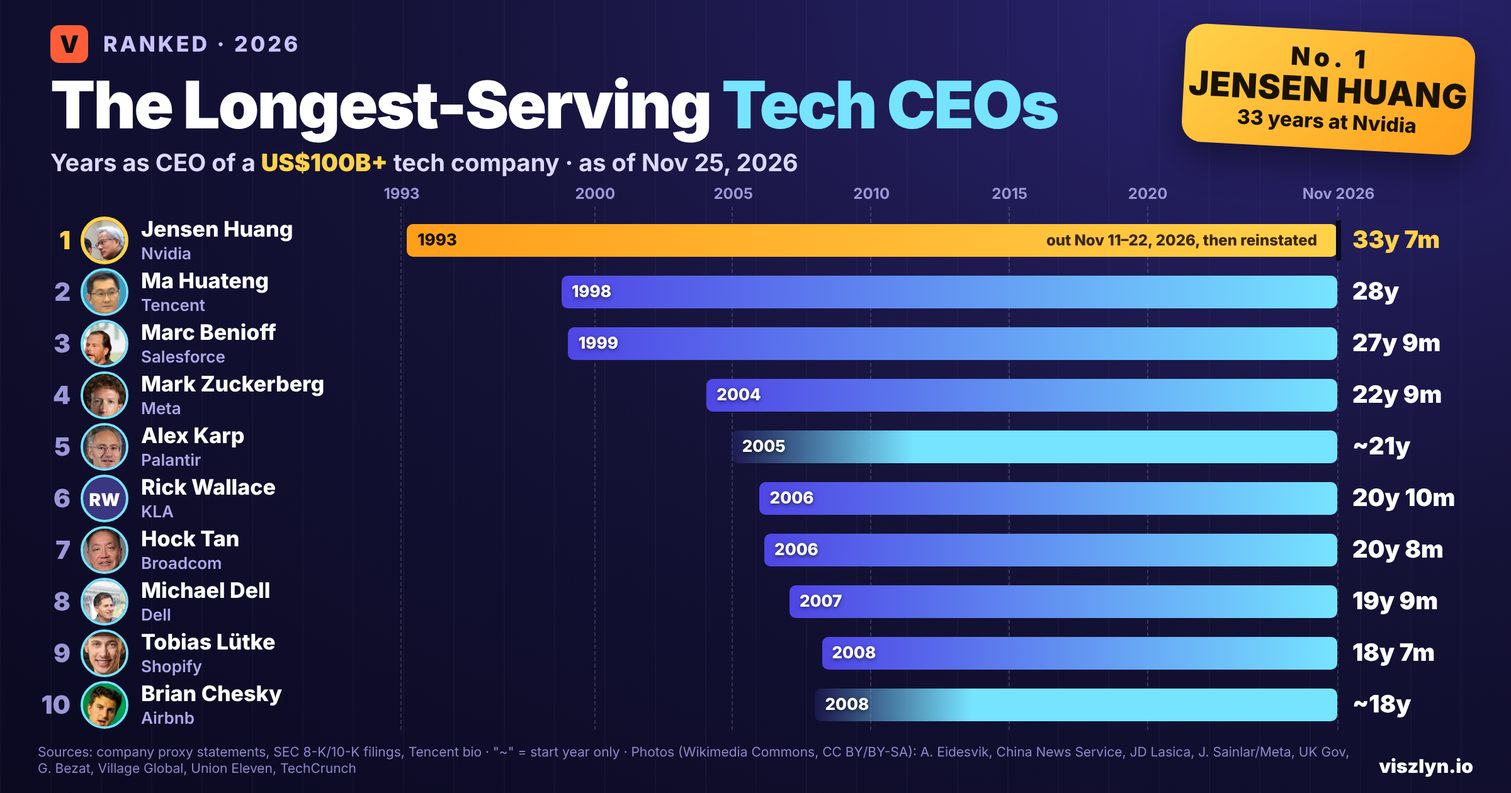
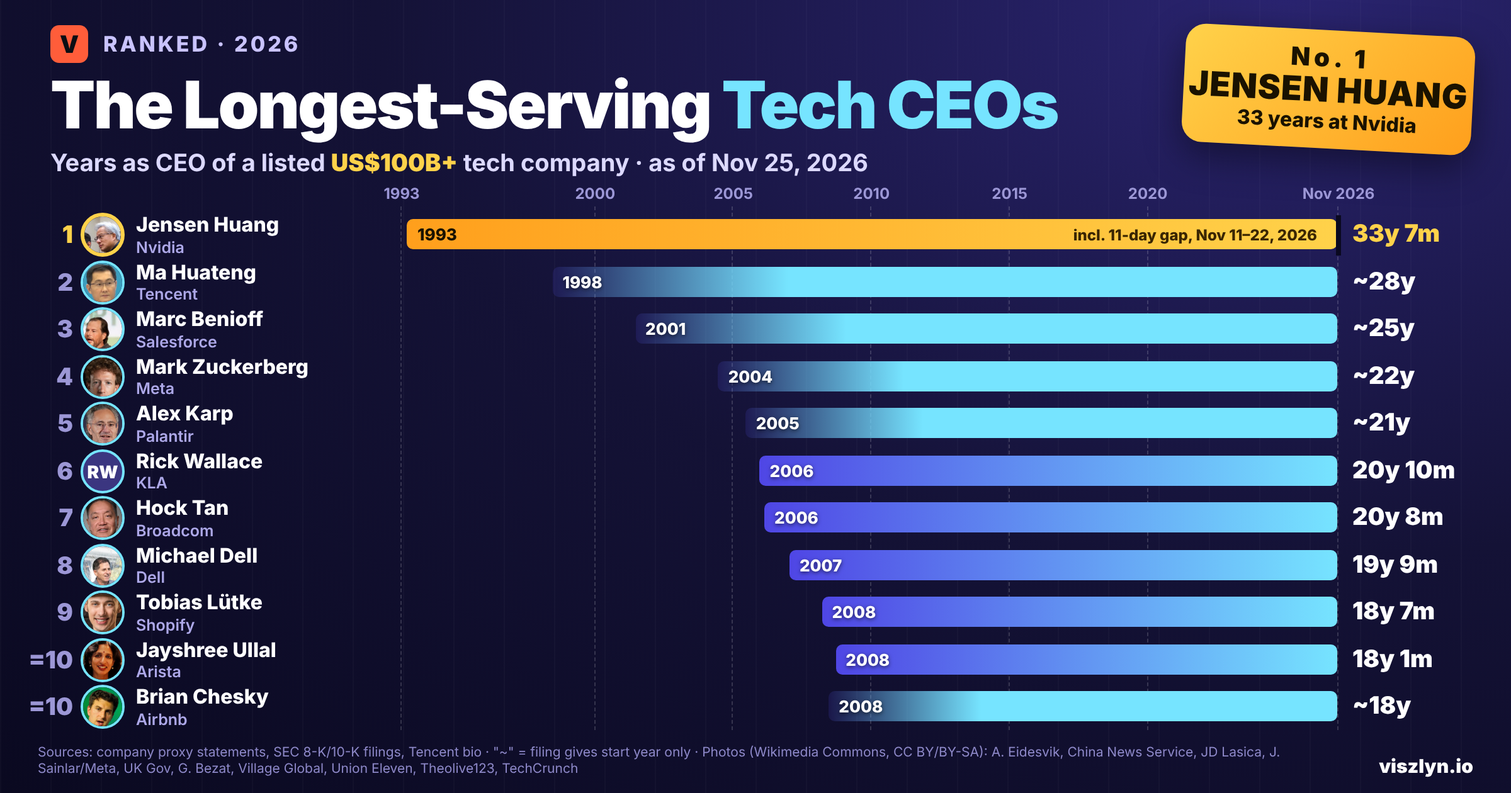
Tech CEOs: apply review fixes (Benioff since 2001, year-only tenures marked, joint No. 10 with Ullal)
Claude-Session: https://claude.ai/code/session_01Lx7Mnbsr2j6Zre36XCS9Kp

Changed region(s): [[0.0312, 0.2786, 0.9688, 0.9905], [0.0, 0.2476, 0.2188, 0.9286], [0.1562, 0.1857, 0.5938, 0.2167]]

diff --git a/src/data/rankings/longest-serving-tech-ceos-2026.ts b/src/data/rankings/longest-serving-tech-ceos-2026.ts
@@ -6,62 +6,71 @@ const MC = "Market cap: CompaniesMarketCap snapshot, November 25, 2026";
 export const longestServingTechCeos2026: RankingArticle = {
   slug: "longest-serving-tech-ceos-2026",
 
-  metaTitle: "The 10 Longest-Serving Tech CEOs in 2026 (Jensen Huang Is No. 1) | Viszlyn",
+  metaTitle: "The 10 Longest-Serving Tech CEOs in 2026, Ranked | Viszlyn",
   metaDescription:
-    "Jensen Huang has led Nvidia for 33 years, the longest of any CEO of a US$100 billion+ tech company, even after a brief exit in November 2026. See the top 10, from Pony Ma to Brian Chesky.",
+    "Nvidia's Jensen Huang (33 years), Tencent's Pony Ma (about 28) and Salesforce's Marc Benioff (about 25) lead the CEOs of US$100 billion+ listed tech companies by time in the job. See the full top 10.",
   ogTitle: "The Longest-Serving Tech CEOs in 2026",
   ogDescription:
-    "Jensen Huang (33 years), Pony Ma (28) and Marc Benioff (27) lead the CEOs of the world's biggest tech companies by time in the job.",
+    "Jensen Huang (33 years), Pony Ma (about 28) and Marc Benioff (about 25) lead the CEOs of the biggest listed tech companies by time in the job.",
   twitterTitle: "The 10 Longest-Serving Tech CEOs (2026)",
   twitterDescription:
-    "Jensen Huang 33 yrs. Pony Ma 28. Marc Benioff 27. Mark Zuckerberg 22. Who has run a US$100B+ tech company the longest?",
+    "Jensen Huang 33 yrs. Pony Ma ~28. Marc Benioff ~25. Mark Zuckerberg ~22. Who has run a US$100B+ tech company the longest?",
 
   eyebrow: "Tech",
   title: "The 10 Longest-Serving Tech CEOs in 2026",
-  dek: "Nvidia's Jensen Huang has been CEO since he co-founded the company in 1993, a run interrupted only by a brief exit from November 11 to 22, 2026. Here are the 10 CEOs who have led the world's biggest tech companies the longest.",
+  dek: "Ranked by time as CEO among listed tech companies worth more than US$100 billion. Nvidia's Jensen Huang leads with 33 years, counted from the company's founding in 1993.",
   publishedDate: "November 25, 2026",
   lastUpdated: "November 25, 2026",
-  dataPeriod: "Tenures as of November 25, 2026; companies worth over US$100 billion on that date",
+  dataPeriod: "Tenures as of November 25, 2026; listed companies worth over US$100 billion on that date",
   heroImage: {
     src: "/heroes/longest-serving-tech-ceos-2026.png",
     ogSrc: "/heroes/longest-serving-tech-ceos-2026-og.png",
-    alt: "Timeline bars showing how long the 10 longest-serving tech CEOs have led their companies: Jensen Huang (Nvidia) since 1993, Ma Huateng (Tencent) since 1998, Marc Benioff (Salesforce) since 1999, Mark Zuckerberg (Meta) since 2004, Alex Karp (Palantir) since 2005, Rick Wallace (KLA) and Hock Tan (Broadcom) since 2006, Michael Dell (Dell) since 2007, and Tobias Lütke (Shopify) and Brian Chesky (Airbnb) since 2008.",
+    alt: "Timeline bars showing how long the longest-serving tech CEOs have led their companies: Jensen Huang (Nvidia) since 1993, Ma Huateng (Tencent) since 1998, Marc Benioff (Salesforce) since 2001, Mark Zuckerberg (Meta) since 2004, Alex Karp (Palantir) since 2005, Rick Wallace (KLA) and Hock Tan (Broadcom) since 2006, Michael Dell (Dell) since 2007, and Tobias Lütke (Shopify), Jayshree Ullal (Arista) and Brian Chesky (Airbnb) since 2008.",
   },
 
   quickAnswer:
-    "Jensen Huang of Nvidia is the longest-serving CEO of any tech company worth over US$100 billion: 33 years and 7 months as of November 25, 2026, counted from Nvidia's founding in April 1993. Tencent's Ma Huateng (28 years) and Salesforce's Marc Benioff (27 years and 9 months) follow. Huang resigned effective November 11, 2026 and was reinstated effective November 22, according to Nvidia's SEC filings; we count his tenure as continuous and show the 11-day gap.",
+    "Jensen Huang of Nvidia is the longest-serving CEO of any listed tech company worth over US$100 billion: 33 years and 7 months as of November 25, 2026, counted from Nvidia's founding in April 1993. Tencent's Ma Huateng (about 28 years) and Salesforce's Marc Benioff (about 25 years, CEO since 2001) follow. Huang's count includes an 11-day interruption: Nvidia's board accepted his resignation effective November 11, 2026 and reinstated him effective November 22, according to the company's SEC filings.",
   introParagraph:
-    "Tech moves fast, but a few of its biggest companies have had the same leader for decades. This ranking covers the current CEOs of listed technology, semiconductor, software and internet companies worth more than US$100 billion on November 25, 2026, and ranks them by how long they have been CEO of their current company. Start dates come from company filings and official biographies. Eight of the ten are founders or co-founders, and most of the leaders on this list have run their companies through several boom-and-bust cycles.",
+    "Tech moves fast, but a few of its biggest companies have had the same leader for decades. This ranking covers the current CEOs of listed technology, semiconductor, software and internet companies worth more than US$100 billion on November 25, 2026, and ranks them by how long they have been CEO of their current company. Start dates come from company filings and official biographies. Several filings give only a year, so those tenures are shown as approximate (\"~\"). Eight of the 11 CEOs on this list founded or co-founded their company.",
   calloutBox: {
     label: "What about Elon Musk?",
-    body: "Elon Musk has run SpaceX since founding it in 2002 and Tesla since 2008. If those companies counted, he would rank about third. They are not included because this ranking covers technology, semiconductor, software and internet companies, and SpaceX and Tesla are an aerospace company and a carmaker. Spotify's Daniel Ek, who led the company for about 20 years, also misses out: he became executive chairman on January 1, 2026, handing the CEO job to co-CEOs.",
+    body: "Tesla and SpaceX both appear on the market-value list we used, and Musk has run SpaceX since founding it in 2002 and Tesla since 2008. They are not included because this ranking covers technology, semiconductor, software and internet companies, and Tesla is a carmaker and SpaceX an aerospace company. Spotify's Daniel Ek, who led the company for about 20 years, also misses out: he became executive chairman on January 1, 2026, handing the CEO job to co-CEOs.",
   },
 
   chartTitle: "Years as CEO of their current company (as of Nov 25, 2026)",
-  chartSource: "Company proxy statements, 8-K and 10-K filings and official biographies. \"~\" = only the start year is published",
-  chartTapNote: "Tap any CEO to jump to their details below.",
+  chartSource: "Company proxy statements, 8-K and 10-K filings and official biographies. \"~\" = the filing gives only the start year",
+  chartTapNote: "Tap any CEO to jump to their details below. No. 10 is shared: Airbnb gives only the year Chesky became CEO.",
   entryValueLabel: "Time as CEO:",
   chartItems: [
-    { rank: 1, name: "Jensen Huang (Nvidia)", value: "33 yrs 7 mos", raw: 33.58 },
-    { rank: 2, name: "Ma Huateng (Tencent)", value: "28 yrs", raw: 28.0 },
-    { rank: 3, name: "Marc Benioff (Salesforce)", value: "27 yrs 9 mos", raw: 27.75 },
-    { rank: 4, name: "Mark Zuckerberg (Meta)", value: "22 yrs 9 mos", raw: 22.75 },
-    { rank: 5, name: "Alex Karp (Palantir)", value: "~21 yrs", raw: 21 },
-    { rank: 6, name: "Rick Wallace (KLA)", value: "20 yrs 10 mos", raw: 20.83 },
-    { rank: 7, name: "Hock Tan (Broadcom)", value: "20 yrs 8 mos", raw: 20.67 },
-    { rank: 8, name: "Michael Dell (Dell)", value: "19 yrs 9 mos", raw: 19.75 },
-    { rank: 9, name: "Tobias Lütke (Shopify)", value: "18 yrs 7 mos", raw: 18.58 },
-    { rank: 10, name: "Brian Chesky (Airbnb)", value: "~18 yrs", raw: 18 },
+    { rank: 1, name: "Jensen Huang", value: "33 yrs 7 mos", raw: 33.58 },
+    { rank: 2, name: "Ma Huateng", value: "~28 yrs", raw: 28 },
+    { rank: 3, name: "Marc Benioff", value: "~25 yrs", raw: 25 },
+    { rank: 4, name: "Mark Zuckerberg", value: "~22 yrs", raw: 22 },
+    { rank: 5, name: "Alex Karp", value: "~21 yrs", raw: 21 },
+    { rank: 6, name: "Rick Wallace", value: "20 yrs 10 mos", raw: 20.83 },
+    { rank: 7, name: "Hock Tan", value: "20 yrs 8 mos", raw: 20.67 },
+    { rank: 8, name: "Michael Dell", value: "19 yrs 9 mos", raw: 19.75 },
+    { rank: 9, name: "Tobias Lütke", value: "18 yrs 7 mos", raw: 18.58 },
+    { rank: 10, rankLabel: "=10", name: "Jayshree Ullal", value: "18 yrs 1 mo", raw: 18.08 },
+    { rank: 10, rankLabel: "=10", name: "Brian Chesky", value: "~18 yrs", raw: 18 },
   ],
 
   detailedEntries: [
     {
-      rank: 10, name: "Brian Chesky", earnings: "About 18 years (since 2008)", category: "Airbnb · co-founder",
+      rank: 10, rankLabel: "=10", name: "Brian Chesky", earnings: "About 18 years (since 2008)", category: "Airbnb · co-founder",
       origin: `Market cap US$103.46 billion (${MC})`,
-      blurb: "Airbnb's 2026 proxy statement says Chesky co-founded the company in 2008 and serves as its chief executive officer and chair. Only the year is published.",
-      standoutFact: "He edges out Arista's Jayshree Ullal (CEO since October 2008) on Airbnb's August 2008 founding; the two are effectively level.",
+      blurb: "Airbnb's 2026 proxy statement says Chesky co-founded the company in 2008 and serves as its chief executive officer and board chair. It gives no month for when he became CEO.",
+      standoutFact: "Because only the year is published, his exact place can't be pinned down: depending on the month, he would rank anywhere from ninth to eleventh. We show him level with Jayshree Ullal.",
       sourceTag: "Airbnb, 2026 proxy statement",
       image: { src: `${P}/brian-chesky.webp`, width: 798, height: 1200, alt: "Brian Chesky speaking on stage at a TechCrunch event", author: "TechCrunch", license: "CC BY 2.0", licenseUrl: "https://creativecommons.org/licenses/by/2.0", sourceUrl: "https://commons.wikimedia.org/wiki/File:Brian_Chesky_TechCrunch.jpg", caption: "Airbnb CEO Brian Chesky at a TechCrunch event." },
+    },
+    {
+      rank: 10, rankLabel: "=10", name: "Jayshree Ullal", earnings: "18 years, 1 month (since October 2008)", category: "Arista Networks",
+      origin: `Market cap US$212.95 billion (${MC})`,
+      blurb: "Arista's 2026 proxy statement says Ullal has been CEO since October 2008. She has also chaired the board since December 2023.",
+      standoutFact: "She is the only woman on this list, and one of three CEOs here who did not found their company.",
+      sourceTag: "Arista Networks, 2026 proxy statement",
+      image: { src: `${P}/jayshree-ullal.webp`, width: 780, height: 1200, alt: "Portrait of Jayshree Ullal in a green sari in front of a wall of leaves", author: "Theolive123", license: "CC BY-SA 4.0", licenseUrl: "https://creativecommons.org/licenses/by-sa/4.0", sourceUrl: "https://commons.wikimedia.org/wiki/File:Jayshree_Ullal_Arista_CEO.jpg", caption: "Arista Networks CEO Jayshree Ullal." },
     },
     {
       rank: 9, name: "Tobias Lütke", earnings: "18 years, 7 months (since April 2008)", category: "Shopify · co-founder",
@@ -75,14 +84,14 @@ export const longestServingTechCeos2026: RankingArticle = {
       rank: 8, name: "Michael Dell", earnings: "19 years, 9 months (since January 31, 2007)", category: "Dell Technologies · founder",
       origin: `Market cap US$187.74 billion (${MC})`,
       blurb: "Michael Dell was CEO of Dell from 1984 until July 2004, stepped back, and returned as CEO on January 31, 2007. We count only his current, unbroken stint.",
-      standoutFact: "Counting both stints, he has been CEO for about 39 years, which would put him first.",
+      standoutFact: "Counting both stints, he has been CEO for nearly 40 years, which would put him first.",
       sourceTag: "Dell Technologies, 2026 proxy statement; Dell Inc. Form 8-K (February 2007)",
       image: { src: `${P}/michael-dell.webp`, width: 1200, height: 800, alt: "Michael Dell talking with guests at an outdoor event", author: "Village Global", license: "CC BY 2.0", licenseUrl: "https://creativecommons.org/licenses/by/2.0", sourceUrl: "https://commons.wikimedia.org/wiki/File:Michael_Dell_(52548152888).jpg", caption: "Michael Dell (centre) at a Village Global event, 2022." },
     },
     {
       rank: 7, name: "Hock Tan", earnings: "20 years, 8 months (since March 2006)", category: "Broadcom",
       origin: `Market cap US$1.437 trillion (${MC})`,
-      blurb: "Broadcom's proxy statement says Tan has been President and CEO since March 2006, when he took over Avago, the company that later became today's Broadcom.",
+      blurb: "Broadcom's proxy statement says Tan has been President and CEO since March 2006. He became CEO of Avago Technologies, the company that later took the Broadcom name; he did not found it.",
       standoutFact: "Broadcom says its market value grew from US$3.8 billion at its 2009 IPO to over US$1.7 trillion by fiscal 2025 under his leadership.",
       sourceTag: "Broadcom, 2026 proxy statement",
       image: { src: `${P}/hock-tan.webp`, width: 824, height: 1200, alt: "Portrait of Hock Tan in a dark suit", author: "Greg Bezat, d/b/a Bezat Video Group", license: "CC BY-SA 4.0", licenseUrl: "https://creativecommons.org/licenses/by-sa/4.0", sourceUrl: "https://commons.wikimedia.org/wiki/File:Hock_Tan_2022.png", caption: "Broadcom CEO Hock Tan, 2022." },
@@ -91,7 +100,7 @@ export const longestServingTechCeos2026: RankingArticle = {
       rank: 6, name: "Rick Wallace", earnings: "20 years, 10 months (since January 1, 2006)", category: "KLA Corporation",
       origin: `Market cap US$174.14 billion (${MC})`,
       blurb: "Wallace became CEO of KLA-Tencor, now KLA, on January 1, 2006, after serving as president and chief operating officer from July 2005.",
-      standoutFact: "He and Broadcom's Hock Tan are the only two CEOs in the top 10 who did not found their companies.",
+      standoutFact: "He has the longest tenure of any CEO here who did not found their company.",
       sourceTag: "KLA-Tencor, Form 8-K (2005)",
     },
     {
@@ -103,34 +112,34 @@ export const longestServingTechCeos2026: RankingArticle = {
       image: { src: `${P}/alex-karp.webp`, width: 802, height: 1200, alt: "Alex Karp wearing a lanyard at the AI Safety Summit", author: "UK Government", license: "CC BY 2.0", licenseUrl: "https://creativecommons.org/licenses/by/2.0", sourceUrl: "https://commons.wikimedia.org/wiki/File:Alex_Karp_attends_AI_Summit_(53302457013)_(cropped).jpg", caption: "Palantir CEO Alex Karp at the UK AI Safety Summit, 2023." },
     },
     {
-      rank: 4, name: "Mark Zuckerberg", earnings: "22 years, 9 months (since February 2004)", category: "Meta Platforms · founder",
+      rank: 4, name: "Mark Zuckerberg", earnings: "About 22 years (since 2004)", category: "Meta Platforms · founder",
       origin: `Market cap US$1.507 trillion (${MC})`,
-      blurb: "Meta's 2026 proxy statement lists Zuckerberg as founder, chairman and CEO, and a director since 2004. He has led the company since Facebook's founding in February 2004.",
+      blurb: "Meta's 2026 proxy statement lists Zuckerberg as founder and CEO from 2004 to the present, a director since 2004 and chairman since 2012. The filing gives only the year.",
       standoutFact: "He has led the company for its entire life, through the 2012 IPO and the 2021 rename from Facebook to Meta.",
       sourceTag: "Meta Platforms, 2026 proxy statement",
       image: { src: `${P}/mark-zuckerberg.webp`, width: 871, height: 1200, alt: "Studio portrait of Mark Zuckerberg in a black T-shirt", author: "Jeff Sainlar; Social Producer and Editor, Meta", license: "CC BY-SA 4.0", licenseUrl: "https://creativecommons.org/licenses/by-sa/4.0", sourceUrl: "https://commons.wikimedia.org/wiki/File:Mark_Zuckerberg_(2025).jpg", caption: "Meta CEO Mark Zuckerberg, 2025." },
     },
     {
-      rank: 3, name: "Marc Benioff", earnings: "27 years, 9 months (since February 1999)", category: "Salesforce · co-founder",
+      rank: 3, name: "Marc Benioff", earnings: "About 25 years (since 2001)", category: "Salesforce · co-founder",
       origin: `Market cap US$159.05 billion (${MC})`,
-      blurb: "Salesforce's 2026 proxy statement lists Benioff as chair, CEO and co-founder, and a director since 1999. He has led the company since its founding in February 1999.",
-      standoutFact: "He has run Salesforce for its entire history as a company.",
+      blurb: "Salesforce's 2026 proxy statement lists Benioff as chair, co-founder of Salesforce in 1999 and CEO since 2001. The filing gives only the year he became CEO.",
+      standoutFact: "He co-founded Salesforce in 1999 and has been a director since then, but became CEO two years later.",
       sourceTag: "Salesforce, 2026 proxy statement",
       image: { src: `${P}/marc-benioff.webp`, width: 1200, height: 917, alt: "Marc Benioff speaking from an armchair on stage at TechCrunch Disrupt", author: "JD Lasica from Pleasanton, CA, US", license: "CC BY 2.0", licenseUrl: "https://creativecommons.org/licenses/by/2.0", sourceUrl: "https://commons.wikimedia.org/wiki/File:Marc_Benioff_(7983873379).jpg", caption: "Salesforce CEO Marc Benioff at TechCrunch Disrupt." },
     },
     {
-      rank: 2, name: "Ma Huateng (Pony Ma)", earnings: "28 years (since November 1998)", category: "Tencent · co-founder",
+      rank: 2, name: "Ma Huateng", earnings: "About 28 years (since 1998)", category: "Tencent · co-founder",
       origin: `Market cap US$394.10 billion (${MC})`,
-      blurb: "Tencent's official biography says Ma co-founded the company in 1998 and is its chairman and CEO. Tencent publishes no separate CEO start date, so his tenure is counted from the company's founding in November 1998.",
+      blurb: "Tencent's official biography says Ma Huateng, also known as Pony Ma, co-founded the company in 1998 and is its chairman and CEO. Tencent publishes no separate CEO start date, so his tenure is estimated from the company's founding year.",
       standoutFact: "Before Tencent, he led research and development for an internet paging system at China Motion Telecom Development.",
       sourceTag: "Tencent, official management biography",
       image: { src: `${P}/ma-huateng.webp`, width: 811, height: 1080, alt: "Ma Huateng seated behind a Tencent nameplate at a press event", author: "中国新闻网 (China News Service)", license: "CC BY 3.0", licenseUrl: "https://creativecommons.org/licenses/by/3.0", sourceUrl: "https://commons.wikimedia.org/wiki/File:%E9%A9%AC%E5%8C%96%E8%85%BE_Pony_Ma_2019.jpg", caption: "Tencent chairman and CEO Ma Huateng at a Tencent event, 2019." },
     },
     {
-      rank: 1, name: "Jensen Huang", earnings: "33 years, 7 months (since April 1993)", category: "Nvidia · co-founder",
+      rank: 1, name: "Jensen Huang", earnings: "33 years, 7 months (since Nvidia's founding in April 1993)", category: "Nvidia · co-founder",
       origin: `Market cap US$3.751 trillion (${MC})`,
-      blurb: "Nvidia's 2026 proxy statement says Huang founded the company in 1993 and has served since its inception as President, CEO and a board member. On November 11, 2026, the board accepted his resignation and named CFO Colette Kress interim CEO; on November 22, it unanimously reinstated him, according to Nvidia's Form 8-K filings. We count his tenure as continuous.",
-      standoutFact: "He has led Nvidia for more than five years longer than anyone else on this list has led their company.",
+      blurb: "Nvidia's 2026 proxy statement says Huang founded the company in 1993 and has served since its inception as President, CEO and a board member; Nvidia was founded in April 1993. On November 11, 2026, the board accepted his resignation and named CFO Colette Kress interim CEO. On November 22, it unanimously reinstated him, according to Nvidia's Form 8-K filings. His tenure here includes that 11-day interruption.",
+      standoutFact: "Even without the 11 days, he has led Nvidia more than five years longer than anyone else on this list has led their company.",
       sourceTag: "Nvidia, 2026 proxy statement; Form 8-K filings of November 12 and 23, 2026",
       image: { src: `${P}/jensen-huang.webp`, width: 1200, height: 900, alt: "Jensen Huang, in a black leather jacket, speaking on stage at Stanford University", author: "Anders Eidesvik", license: "CC BY 4.0", licenseUrl: "https://creativecommons.org/licenses/by/4.0", sourceUrl: "https://commons.wikimedia.org/wiki/File:Jensen_huang_stanford_2026-04-30_016.jpg", caption: "Nvidia CEO Jensen Huang (right) at Stanford University, April 2026." },
     },
@@ -139,30 +148,31 @@ export const longestServingTechCeos2026: RankingArticle = {
   keyTakeaway: {
     stat: "33 yrs",
     label: "Jensen Huang's time as Nvidia's CEO",
-    comparisonStat: "8 of 10",
-    comparisonLabel: "of the longest-serving CEOs are founders or co-founders",
-    note: "Tenures as of November 25, 2026. Huang's count includes a brief break: resignation effective November 11, reinstatement effective November 22, 2026.",
+    comparisonStat: "8 of 11",
+    comparisonLabel: "CEOs on this list founded or co-founded their company",
+    note: "Tenures as of November 25, 2026. Huang's count includes an 11-day interruption: resignation effective November 11, reinstatement effective November 22, 2026. Rick Wallace, Hock Tan and Jayshree Ullal are the three who did not found their companies.",
   },
 
   sourceNote: {
-    dataPeriod: "Tenures as of November 25, 2026; companies worth over US$100 billion on that date",
+    dataPeriod: "Tenures as of November 25, 2026; listed companies worth over US$100 billion on that date",
     lastUpdated: "November 25, 2026",
     sources:
-      "Start dates: company proxy statements (Nvidia, Salesforce, Meta, Palantir, Broadcom, Dell Technologies, Airbnb), Form 8-K filings (Nvidia, November 2026; KLA-Tencor, 2005; Dell Inc., 2007), Shopify's Form 10-K and Tencent's official biography. Market values: CompaniesMarketCap, largest tech companies by market cap, snapshot of November 25, 2026.",
+      "Start dates: company proxy statements (Nvidia, Salesforce, Meta, Palantir, Broadcom, Dell Technologies, Airbnb, Arista Networks), Form 8-K filings (Nvidia, November 2026; KLA-Tencor, 2005; Dell Inc., 2007), Shopify's Form 10-K and Tencent's official biography. Market values: CompaniesMarketCap, largest tech companies by market cap, snapshot of November 25, 2026.",
     methodology:
-      "The ranking covers current CEOs of listed technology, semiconductor, software and internet companies worth more than US$100 billion on November 25, 2026, ranked by time as CEO of their current company up to that date. Tenure is counted from the date a person became CEO, not from when they joined or co-founded the company. Only the current, unbroken stint counts, so Michael Dell is counted from January 31, 2007. Jensen Huang's tenure is counted as continuous since Nvidia's founding, with his November 11–22, 2026 exit stated openly. Where only a start year is published (Karp, Chesky), tenure is approximate. Where a CEO has led a company since its founding and the filing gives only the year (Huang, Benioff, Zuckerberg, Ma), we use the company's founding month. Interim CEOs are excluded. SpaceX and Tesla are excluded as aerospace and automotive companies. Market values change daily: on November 25, 2026, Fortinet (Ken Xie, CEO since 2000) and Adobe (Shantanu Narayen, CEO since December 2007) were just below the US$100 billion line, and Airbnb and Cloudflare just above it.",
+      "Universe: listed companies on CompaniesMarketCap's largest-tech-companies list worth more than US$100 billion on November 25, 2026, limited to technology, semiconductor, software and internet businesses (Tesla, a carmaker, and SpaceX, an aerospace company, are left out). Each current CEO is ranked by time as CEO of their current company up to that date, counted from when they became CEO, not from when they joined or co-founded the company. Only the current, unbroken stint counts, so Michael Dell is counted from January 31, 2007. One exception is made for very short interruptions: Jensen Huang's tenure is counted from Nvidia's founding in April 1993 and includes his 11-day absence (November 11–22, 2026), which is stated openly. Where a filing gives only a start year (Ma, Benioff, Zuckerberg, Karp, Chesky), tenure is approximate and marked \"~\"; those CEOs are ranked by start year, which settles every position except Brian Chesky's: a 2008 start could fall before or after Tobias Lütke's (April 2008) and Jayshree Ullal's (October 2008), so he is shown level with Ullal at No. 10. Interim CEOs are excluded. Market values change daily. On November 25, 2026 the companies closest to the US$100 billion line were Cloudflare (US$102.96 billion; Matthew Prince, CEO since July 2009) and Airbnb (US$103.46 billion) just above it, and Fortinet (US$97.34 billion; Ken Xie, CEO since 2000), ServiceNow (US$95.21 billion), Adobe (US$90.32 billion; Shantanu Narayen, CEO since December 2007) and Xiaomi (US$86.16 billion) just below it.",
     sourceLinks: [
       { label: "Nvidia Form 8-K: resignation (November 2026)", href: "https://www.sec.gov/Archives/edgar/data/1045810/000104581026000082/nvda-20261111.htm" },
       { label: "Nvidia Form 8-K: reinstatement (November 2026)", href: "https://www.sec.gov/Archives/edgar/data/1045810/000104581026000090/nvda-20261122.htm" },
       { label: "Nvidia 2026 proxy statement", href: "https://www.sec.gov/Archives/edgar/data/1045810/000104581026000036/nvda-20260512.htm" },
       { label: "Tencent: Ma Huateng biography", href: "https://www.tencent.com/team/ma-huateng-pony-ma/" },
-      { label: "Salesforce 2026 proxy statement", href: "https://www.sec.gov/Archives/edgar/data/1108524/000110852426000085/crm-20260416.htm" },
+      { label: "Salesforce FY26 proxy statement (PDF)", href: "https://s205.q4cdn.com/626266368/files/doc_financials/2026/ar/Salesforce-FY26-Proxy-Statement.pdf" },
       { label: "Meta 2026 proxy statement", href: "https://www.sec.gov/Archives/edgar/data/1326801/000162828026025532/meta-20260416.htm" },
       { label: "Palantir 2026 proxy statement", href: "https://www.sec.gov/Archives/edgar/data/1321655/000132165526000019/pltr-20260423.htm" },
       { label: "KLA-Tencor Form 8-K (2005)", href: "https://www.sec.gov/Archives/edgar/data/319201/000095013405021834/f14682exv99w1.htm" },
       { label: "Broadcom 2026 proxy statement", href: "https://www.sec.gov/Archives/edgar/data/1730168/000119312526085691/d49254ddef14a.htm" },
       { label: "Dell Technologies 2026 proxy statement", href: "https://www.sec.gov/Archives/edgar/data/1571996/000119312526226734/d132444ddef14a.htm" },
       { label: "Shopify Form 10-K (fiscal 2025)", href: "https://www.sec.gov/Archives/edgar/data/1594805/000159480526000011/shop-20251231.htm" },
+      { label: "Arista Networks 2026 proxy statement", href: "https://www.sec.gov/Archives/edgar/data/1596532/000119312526158942/d66465ddef14a.htm" },
       { label: "Airbnb 2026 proxy statement", href: "https://www.sec.gov/Archives/edgar/data/1559720/000119312526175062/d936646ddef14a.htm" },
       { label: "CompaniesMarketCap: largest tech companies", href: "https://companiesmarketcap.com/tech/largest-tech-companies-by-market-cap" },
     ],
@@ -172,22 +182,22 @@ export const longestServingTechCeos2026: RankingArticle = {
     {
       question: "Who is the longest-serving tech CEO?",
       answer:
-        "Among CEOs of tech companies worth over US$100 billion, Jensen Huang of Nvidia: 33 years and 7 months as of November 25, 2026, since co-founding the company in April 1993.",
+        "Among CEOs of listed tech companies worth over US$100 billion, Jensen Huang of Nvidia: 33 years and 7 months as of November 25, 2026, counted from Nvidia's founding in April 1993 and including an 11-day interruption in November 2026.",
     },
     {
       question: "Did Jensen Huang leave Nvidia?",
       answer:
-        "Briefly. Nvidia's board accepted his resignation effective November 11, 2026 and named CFO Colette Kress interim CEO. On November 22, 2026, the board unanimously reinstated him as President and CEO, according to Nvidia's Form 8-K filings. Kress returned to her role as CFO.",
+        "Briefly. Nvidia's board accepted his resignation effective November 11, 2026 and named CFO Colette Kress interim CEO. On November 22, 2026, the board unanimously reinstated him as President and CEO, according to Nvidia's Form 8-K filings. Kress continues as CFO.",
     },
     {
       question: "Why isn't Michael Dell number one?",
       answer:
-        "This ranking counts only a CEO's current, unbroken stint. Michael Dell was CEO from 1984 to 2004 and again since January 31, 2007, so he is counted from 2007. Adding both stints would give about 39 years.",
+        "This ranking counts only a CEO's current, unbroken stint. Michael Dell was CEO from 1984 to 2004 and again since January 31, 2007, so he is counted from 2007. Adding both stints would give nearly 40 years.",
     },
     {
       question: "Why isn't Elon Musk on the list?",
       answer:
-        "The ranking covers technology, semiconductor, software and internet companies. SpaceX and Tesla are an aerospace company and a carmaker, so they are not included. If they were, Musk, CEO of SpaceX since 2002, would rank about third.",
+        "The ranking covers technology, semiconductor, software and internet companies. Tesla is a carmaker and SpaceX an aerospace company, so neither is included, even though both appear on the market-value list we used.",
     },
     {
       question: "How long has Tim Cook been Apple's CEO?",
